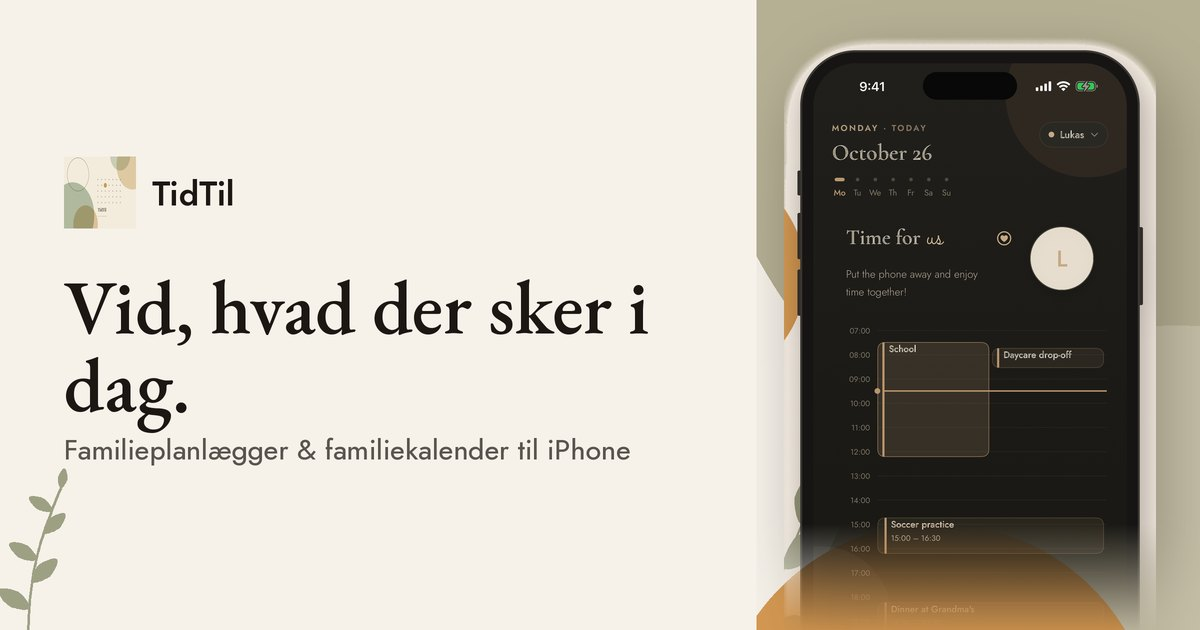
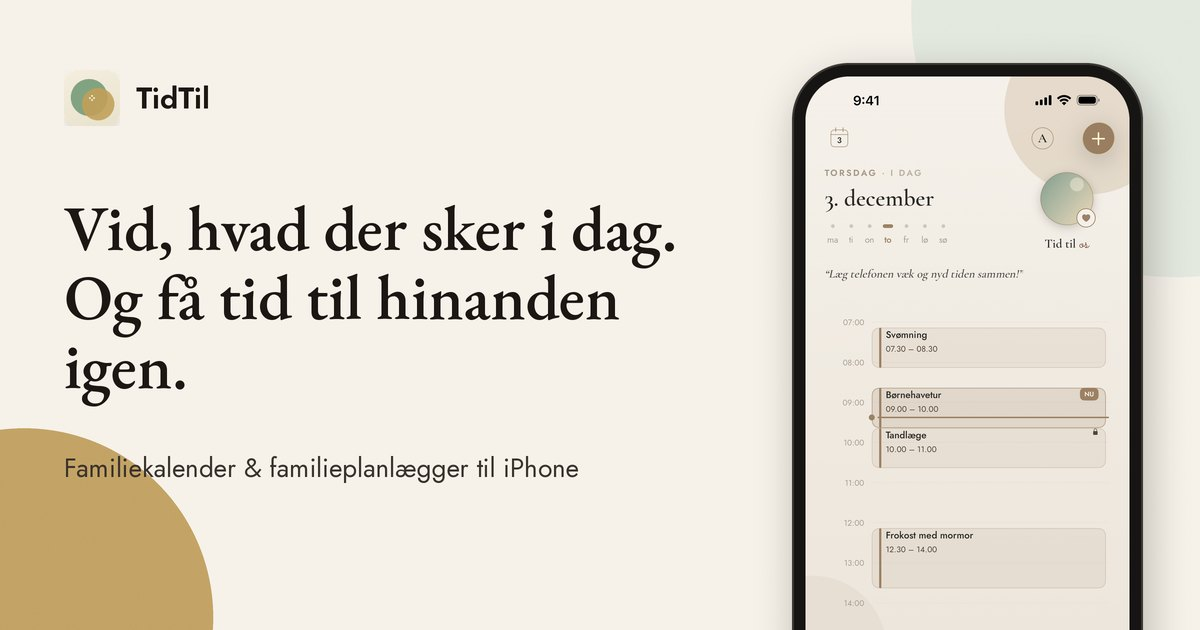
Bilder für TidTil 2.6 auf der Website
Hero, Funktionen, Unterseiten und OG-Bilder zeigen die neue Oberfläche.
Die Woche im Querformat gibt es vorerst nur auf Deutsch. Englisch und
Dänisch behalten dort die bisherigen Fotos.

diff --git a/layouts/index.html b/layouts/index.html
@@ -32,7 +32,9 @@
     </div>
   </div>
   <figure class="photo hero-photo">
-    <img src="{{ "img/hero-familienalltag.webp" | relURL }}" alt="{{ $p.hero_alt }}" width="1024" height="1536" loading="eager" fetchpriority="high">
+    {{- $hero := $p.hero_image | default "img/hero-familienalltag.webp" -}}
+    {{- $hero2 := replace $hero ".webp" "@2x.webp" -}}
+    <img src="{{ $hero | relURL }}"{{ if fileExists (printf "static/%s" $hero2) }} srcset="{{ $hero | relURL }} 1x, {{ $hero2 | relURL }} 2x"{{ end }} alt="{{ $p.hero_alt }}" width="{{ $p.hero_width | default 1024 }}" height="{{ $p.hero_height | default 1536 }}" loading="eager" fetchpriority="high">
   </figure>
 </section>
 
@@ -73,7 +75,7 @@
   <div class="feature-stack">
     {{- with index $r 0 }}
     <div class="feature">
-      <figure class="photo feature-photo"><img src="{{ .image | relURL }}" alt="{{ .alt }}" width="1003" height="1568" loading="lazy" decoding="async" style="object-position:50% 40%"></figure>
+      <figure class="photo feature-photo"><img src="{{ .image | relURL }}"{{ if fileExists (printf "static/%s" (replace .image ".webp" "@2x.webp")) }} srcset="{{ .image | relURL }} 1x, {{ replace .image ".webp" "@2x.webp" | relURL }} 2x"{{ end }} alt="{{ .alt }}" width="{{ .width | default 1003 }}" height="{{ .height | default 1568 }}" loading="lazy" decoding="async"{{ with .position }} style="object-position:{{ . | safeCSS }}"{{ end }}></figure>
       <div class="feature-text">
         <h3 class="h-feature">{{ .title }}</h3>
         <p class="copy">{{ .text }}</p>
@@ -86,13 +88,13 @@
         <h3 class="h-feature">{{ .title }}</h3>
         <p class="copy">{{ .text }}</p>
       </div>
-      <figure class="photo feature-photo"><img src="{{ .image | relURL }}" alt="{{ .alt }}" width="1122" height="1402" loading="lazy" decoding="async"></figure>
+      <figure class="photo feature-photo"><img src="{{ .image | relURL }}"{{ if fileExists (printf "static/%s" (replace .image ".webp" "@2x.webp")) }} srcset="{{ .image | relURL }} 1x, {{ replace .image ".webp" "@2x.webp" | relURL }} 2x"{{ end }} alt="{{ .alt }}" width="{{ .width | default 1122 }}" height="{{ .height | default 1402 }}" loading="lazy" decoding="async"></figure>
     </div>
     {{- end }}
     <div class="feature-pair">
       {{- with index $r 2 }}
       <div class="feature-card">
-        <figure class="photo"><img src="{{ .image | relURL }}" alt="{{ .alt }}" width="1122" height="1402" loading="lazy" decoding="async"></figure>
+        <figure class="photo"><img src="{{ .image | relURL }}"{{ if fileExists (printf "static/%s" (replace .image ".webp" "@2x.webp")) }} srcset="{{ .image | relURL }} 1x, {{ replace .image ".webp" "@2x.webp" | relURL }} 2x"{{ end }} alt="{{ .alt }}" width="{{ .width | default 1122 }}" height="{{ .height | default 1402 }}" loading="lazy" decoding="async"></figure>
         <h3 class="h-feature-sm">{{ .title }}</h3>
         <p class="copy">{{ .text }}</p>
       </div>
@@ -101,7 +103,7 @@
       {{- $src := .image -}}
       {{- $src2 := replace $src ".webp" "@2x.webp" -}}
       <div class="feature-card">
-        <figure class="photo"><img src="{{ $src | relURL }}" srcset="{{ $src | relURL }} 1x, {{ $src2 | relURL }} 2x" alt="{{ .alt }}" width="740" height="740" loading="lazy" decoding="async"></figure>
+        <figure class="photo"><img src="{{ $src | relURL }}" srcset="{{ $src | relURL }} 1x, {{ $src2 | relURL }} 2x" alt="{{ .alt }}" width="{{ .width | default 740 }}" height="{{ .height | default 740 }}" loading="lazy" decoding="async"></figure>
         <h3 class="h-feature-sm">{{ .title }}</h3>
         <p class="copy">{{ .text }}</p>
       </div>
@@ -117,7 +119,7 @@
     {{- $src := .image -}}
     {{- $src2 := replace $src ".webp" "@2x.webp" -}}
     <figure class="photo feature-photo-phone">
-      <img src="{{ $src | relURL }}" srcset="{{ $src | relURL }} 1x, {{ $src2 | relURL }} 2x" alt="{{ .alt }}" width="740" height="925" loading="lazy" decoding="async">
+      <img src="{{ $src | relURL }}" srcset="{{ $src | relURL }} 1x, {{ $src2 | relURL }} 2x" alt="{{ .alt }}" width="{{ .width | default 740 }}" height="{{ .height | default 925 }}" loading="lazy" decoding="async">
     </figure>
     <div class="feature-text">
       <h2 id="zeit-title" class="h-section">{{ .title }}</h2>
@@ -235,7 +237,9 @@
 
 <section class="closing">
   <figure class="photo closing-photo">
-    <img src="{{ "img/tidtil-header-clean.webp" | relURL }}" alt="{{ $p.hero_alt }}" width="1672" height="941" loading="lazy" decoding="async">
+    {{- $close := $p.close.image | default "img/tidtil-header-clean.webp" -}}
+    {{- $close2 := replace $close ".webp" "@2x.webp" -}}
+    <img src="{{ $close | relURL }}"{{ if fileExists (printf "static/%s" $close2) }} srcset="{{ $close | relURL }} 1x, {{ $close2 | relURL }} 2x"{{ end }} alt="{{ $p.close.image_alt | default $p.hero_alt }}" width="{{ $p.close.image_width | default 1672 }}" height="{{ $p.close.image_height | default 941 }}" loading="lazy" decoding="async">
   </figure>
   <div class="wrap closing-inner">
     <div class="closing-copy">

diff --git a/layouts/partials/doc.html b/layouts/partials/doc.html
@@ -27,7 +27,8 @@
     </div>
     {{- with .Params.hero_image }}
     <figure class="photo doc-photo">
-      <img src="{{ . | relURL }}" alt="{{ $.Params.hero_alt }}" width="{{ $.Params.hero_width | default 1536 }}" height="{{ $.Params.hero_height | default 1024 }}" loading="eager" fetchpriority="high">
+      {{- $src2 := replace . ".webp" "@2x.webp" -}}
+      <img src="{{ . | relURL }}"{{ if fileExists (printf "static/%s" $src2) }} srcset="{{ . | relURL }} 1x, {{ $src2 | relURL }} 2x"{{ end }} alt="{{ $.Params.hero_alt }}" width="{{ $.Params.hero_width | default 1536 }}" height="{{ $.Params.hero_height | default 1024 }}" loading="eager" fetchpriority="high">
     </figure>
     {{- end }}
   </header>

diff --git a/layouts/partials/head.html b/layouts/partials/head.html
@@ -93,7 +93,7 @@
   "url": {{ .Permalink | jsonify | safeJS }},
   "installUrl": {{ partial "appstore-url.html" (dict "page" . "ct" "web-hero") | jsonify | safeJS }},
   "image": {{ $ogImage | jsonify | safeJS }},
-  "screenshot": {{ "img/feature-tagesueberblick.webp" | absURL | jsonify | safeJS }},
+  "screenshot": {{ printf "img/2.6/hero-tag-%s.webp" .Site.Language.Lang | absURL | jsonify | safeJS }},
   "offers": [
     {"@type":"Offer","name":{{ i18n "offer_name_personal" | jsonify | safeJS }},"price":"0","priceCurrency":"EUR"},
     {"@type":"Offer","name":{{ i18n "offer_name_family_monthly" | jsonify | safeJS }},"price":"1.99","priceCurrency":"EUR"},

diff --git a/content/_index.de.md b/content/_index.de.md
@@ -4,7 +4,10 @@ h1: "Wissen, was heute ansteht. Und wieder Zeit für euch."
 kicker: "Der ruhige Familienkalender fürs iPhone"
 sub: "Gemeinsame und private Termine auf einen Blick – ohne Aufgabenlisten, Chats und Funktionsballast. Deine Termine aus dem Apple Kalender holst du mit wenigen Tipps herüber."
 proof: "Kostenlos laden · Familie 14 Tage gratis · Kein Konto · Keine Werbung"
-hero_alt: "TidTil im Familienalltag"
+hero_alt: "TidTil Tagesansicht am Donnerstag, dem 3. Dezember, hell, mit Zeit für uns."
+hero_image: "img/2.6/hero-tag-de.webp"
+hero_width: 520
+hero_height: 650
 
 # „Euer Tag“ – Live-Tagesansicht. Zeiten in Minuten ab Mitternacht,
 # who = Index in live.who, family = für die Familie sichtbar (sonst privat).
@@ -39,31 +42,41 @@ features:
   rows:
     - title: "Was steht bei uns an?"
       text: "Was heute ansteht, wann und für wen. Die Monatsansicht zeigt, was als Nächstes kommt. Quer gedreht siehst du die ganze Woche."
-      image: "img/feature-tagesueberblick.webp"
-      alt: "Heute-Ansicht in TidTil"
+      image: "img/2.6/feature-woche-de.webp"
+      alt: "TidTil Wochenplan im Querformat, Montag bis Sonntag."
+      width: 760
+      height: 608
     - title: "Was? Wann? Für wen? Wer darf’s sehen?"
       text: "Mehr braucht ein Familientermin meistens nicht."
-      image: "img/feature-neuer-termin.webp"
-      alt: "Neuen Familientermin anlegen"
+      image: "img/2.6/feature-termin-de.webp"
+      alt: "Neuen Termin in TidTil anlegen, mit Uhrzeit und Sichtbarkeit für die Familie."
+      width: 760
+      height: 608
     - title: "Fühlt sich nach euch an"
       text: "Ruhig und klar – wählt eure Farbe, ohne Business-Kalender-Gefühl."
-      image: "img/feature-personalisierung.webp"
-      alt: "Farben in TidTil anpassen"
+      image: "img/2.6/feature-design-de.webp"
+      alt: "TidTil Tagesansicht im dunklen Design."
+      width: 740
+      height: 740
     - title: "Direkt loslegen"
       text: "Kein Konto, kein Passwort, kein langes Onboarding. Deine Termine aus dem Apple Kalender holst du mit wenigen Tipps herüber, auch ohne Abo."
-      image: "img/feature-familie-einladen-de.webp"
-      alt: "Familie in TidTil einladen"
+      image: "img/2.6/feature-import-de.webp"
+      alt: "Kalender importieren in TidTil, Termine aus dem Apple Kalender übernehmen."
+      width: 740
+      height: 740
 
 for_us:
   title: "Zeit für uns."
   text: "Euer Foto mit Herz steht neben dem Datum, darunter euer eigener Satz. Ein Tipp aufs Herz, und ihr ladet euch zu einem Date ein – zusagen, absagen oder eine andere Zeit vorschlagen. Die eigene Einladung lässt sich verschieben oder zurückziehen."
   note: "Teil von TidTil Familie"
-  image: "img/feature-zeit-fuer-uns-de.webp"
-  alt: "Einladung zu einem Date in TidTil"
+  image: "img/2.6/feature-zeit-fuer-uns-de.webp"
+  alt: "Zeit für uns in TidTil: Einladung an Ben am 3. Dezember."
+  width: 480
+  height: 600
 
 soon:
   title: "Neu in TidTil 2.6."
-  version: "Jetzt im Update"
+  version: "Jetzt in 2.6"
   items:
     - title: "Kalenderimport"
       text: "Termine aus dem Apple Kalender auswählen und in TidTil übernehmen, auch in der kostenlosen Version. Kalender und einen Zeitraum ab heute wählen: den nächsten Monat oder die nächsten 3, 6 oder 12 Monate. Der Apple Kalender bleibt unverändert. Übernommene Termine sind zuerst privat und werden einzeln für die Familie freigegeben. Im Profilmenü unter „Kalenderimport“."
@@ -159,4 +172,8 @@ faq:
 
 close:
   title: "Wissen, was ansteht. Dann das Handy weglegen."
+  image: "img/2.6/schluss-woche-de.webp"
+  image_alt: "TidTil Wochenplan im Querformat, die Woche von Montag bis Sonntag."
+  image_width: 1440
+  image_height: 630
 ---

diff --git a/content/_index.da.md b/content/_index.da.md
@@ -4,7 +4,10 @@ h1: "Vid, hvad der sker i dag. Og få tid til hinanden igen."
 kicker: "Familiekalenderen til iPhone"
 sub: "Fælles og private aftaler på ét blik – uden opgavelister, chats og unødvendige funktioner. Dine aftaler fra Apple Kalender henter du over med få tryk."
 proof: "Gratis at hente · Familie 14 dage gratis · Ingen konto · Ingen reklamer"
-hero_alt: "TidTil i familiens hverdag"
+hero_alt: "TidTil dagsvisning torsdag den 3. december, lys, med Tid til os."
+hero_image: "img/2.6/hero-tag-da.webp"
+hero_width: 520
+hero_height: 650
 
 live:
   title: "Jeres dag."
@@ -39,29 +42,40 @@ features:
       text: "Dagens aftaler, hvornår og for hvem. Månedsvisningen viser, hvad der kommer. Vend telefonen, og du ser hele ugen."
       image: "img/feature-tagesueberblick.webp"
       alt: "I dag-visning i TidTil"
+      width: 1003
+      height: 1568
+      position: "50% 40%"
     - title: "Hvad? Hvornår? For hvem? Hvem må se det?"
       text: "Mere behøver en familieaftale som regel ikke."
-      image: "img/feature-neuer-termin.webp"
-      alt: "Opret en familieaftale"
+      image: "img/2.6/feature-termin-da.webp"
+      alt: "Opret en ny aftale i TidTil, med tidspunkt og synlighed for familien."
+      width: 760
+      height: 608
     - title: "Føles som jeres"
       text: "Rolig og klar – vælg jeres farve, uden erhvervskalender-følelse."
-      image: "img/feature-personalisierung.webp"
-      alt: "Tilpas farver i TidTil"
+      image: "img/2.6/feature-design-da.webp"
+      alt: "TidTil dagsvisning i mørkt design."
+      width: 740
+      height: 740
     - title: "Kom i gang med det samme"
       text: "Ingen konto, ingen adgangskode, ingen lang introduktion. Dine aftaler fra Apple Kalender henter du over med få tryk, også uden abonnement."
-      image: "img/feature-familie-einladen-en.webp"
-      alt: "Inviter din familie til TidTil"
+      image: "img/2.6/feature-import-da.webp"
+      alt: "Importer en kalender i TidTil, og tag aftaler med fra Apple Kalender."
+      width: 740
+      height: 740
 
 for_us:
   title: "Tid til os."
   text: "Jeres foto med et hjerte står ved siden af datoen, med jeres egen sætning nedenunder. Tryk på hjertet, og inviter hinanden til en date – accepter, afvis eller foreslå et andet tidspunkt. Din egen invitation kan flyttes eller trækkes tilbage."
   note: "En del af TidTil Familie"
-  image: "img/feature-zeit-fuer-uns-en.webp"
-  alt: "Invitation til en date i TidTil"
+  image: "img/2.6/feature-zeit-fuer-uns-da.webp"
+  alt: "Tid til os i TidTil: invitation til Ben den 3. december."
+  width: 480
+  height: 600
 
 soon:
   title: "Nyt i TidTil 2.6."
-  version: "Ude nu som opdatering"
+  version: "Nyt i 2.6"
   items:
     - title: "Kalenderimport"
       text: "Vælg aftaler i Apple Kalender og tag dem med over i TidTil, også i den gratis version. Vælg kalenderne og et tidsrum fra i dag: den næste måned eller de næste 3, 6 eller 12 måneder. Apple Kalender forbliver uændret. Importerede aftaler er først private og kan derefter enkeltvis gøres synlige for familien. I profilmenuen under „Kalenderimport“."
@@ -157,4 +171,5 @@ faq:
 
 close:
   title: "Se, hvad der skal ske. Læg så telefonen væk."
+  image_alt: "Mor og barn ved køkkenbordet, TidTil med en lys dagsvisning på iPhone."
 ---

diff --git a/content/_index.en.md b/content/_index.en.md
@@ -4,7 +4,10 @@ h1: "Know what’s on today. And make time for each other again."
 kicker: "The family calendar for iPhone"
 sub: "Shared and private events at a glance – without task lists, chats or feature overload. Bring your events over from Apple Calendar in just a few taps."
 proof: "Free to download · Family free for 14 days · No account · No ads"
-hero_alt: "TidTil in everyday family life"
+hero_alt: "TidTil day view on Thursday 3 December, light, with Time for us."
+hero_image: "img/2.6/hero-tag-en.webp"
+hero_width: 520
+hero_height: 650
 
 live:
   title: "Your day."
@@ -39,29 +42,40 @@ features:
       text: "Today’s events, their times and who they’re for. The month view shows what’s next. Turn your iPhone sideways to see the whole week."
       image: "img/feature-tagesueberblick.webp"
       alt: "Today view in TidTil"
+      width: 1003
+      height: 1568
+      position: "50% 40%"
     - title: "What? When? Who? Who can see it?"
       text: "That’s usually all a family event needs."
-      image: "img/feature-neuer-termin.webp"
-      alt: "Creating a family event"
+      image: "img/2.6/feature-termin-en.webp"
+      alt: "Creating a new event in TidTil, with time and visibility for the family."
+      width: 760
+      height: 608
     - title: "Feels like yours"
       text: "Calm and clear – pick your colour, without the business-calendar feel."
-      image: "img/feature-personalisierung.webp"
-      alt: "Customising colours in TidTil"
+      image: "img/2.6/feature-design-en.webp"
+      alt: "TidTil day view in the dark design."
+      width: 740
+      height: 740
     - title: "Start right away"
       text: "No account, no password, no lengthy onboarding. Bring your events over from Apple Calendar in a few taps, even without a subscription."
-      image: "img/feature-familie-einladen-en.webp"
-      alt: "Invite your family to TidTil"
+      image: "img/2.6/feature-import-en.webp"
+      alt: "Importing a calendar in TidTil, bringing events over from Apple Calendar."
+      width: 740
+      height: 740
 
 for_us:
   title: "Time for us."
   text: "Your photo with a heart sits next to the date, with your own line of text below. Tap the heart to invite each other to a date – accept, decline or suggest another time. You can move or withdraw your own invitation."
   note: "Part of TidTil Family"
-  image: "img/feature-zeit-fuer-uns-en.webp"
-  alt: "Invitation to a date in TidTil"
+  image: "img/2.6/feature-zeit-fuer-uns-en.webp"
+  alt: "Time for us in TidTil: an invitation to Ben on 3 December."
+  width: 480
+  height: 600
 
 soon:
   title: "New in TidTil 2.6."
-  version: "Out now as an update"
+  version: "New in 2.6"
   items:
     - title: "Calendar import"
       text: "Choose events from Apple Calendar and bring them into TidTil, in the free version too. Pick the calendars and a period starting today: the next month, or the next 3, 6 or 12 months. Apple Calendar stays unchanged. Imported events are private at first and can then be shared with the family one by one. In the profile menu, under “Calendar import”."
@@ -157,4 +171,5 @@ faq:
 
 close:
   title: "Know what’s ahead. Then put the phone away."
+  image_alt: "Mother and child at the kitchen table, TidTil with a light day view on the iPhone."
 ---

diff --git a/content/familienkalender-kinder-ohne-handy.de.md b/content/familienkalender-kinder-ohne-handy.de.md
@@ -3,8 +3,10 @@ title: "Familienkalender für Kinder ohne eigenes Handy"
 description: "Auch Kinder ohne eigenes iPhone gehören in den Familienkalender: einmal mit Namen anlegen und Termine zuordnen – ohne Gerät und ohne Konto fürs Kind."
 url: "/familienkalender-kinder-ohne-handy/"
 layout: "landing"
-hero_image: "img/familien-sync-banner.webp"
-hero_alt: "Familienmitglieder in TidTil anlegen und Termine zuordnen"
+hero_image: "img/2.6/seite-familie-de.webp"
+hero_width: 560
+hero_height: 420
+hero_alt: "Familie einladen in TidTil, damit auch Kinder ohne iPhone Termine bekommen."
 hero_lead: "Termine eindeutig zuordnen – auch für Kinder, die noch kein eigenes iPhone haben."
 faq:
   - q: "Können auch Kinder ohne iPhone dabei sein?"

diff --git a/content/familienkalender-kinder-ohne-handy.en.md b/content/familienkalender-kinder-ohne-handy.en.md
@@ -3,8 +3,10 @@ title: "Family Calendar for Children Without a Phone"
 description: "Include children without their own iPhone in your family calendar: add them once by name and assign events – no device or account needed for the child."
 url: "/family-calendar-kids-without-phone/"
 layout: "landing"
-hero_image: "img/familien-sync-banner.webp"
-hero_alt: "Adding family members in TidTil and assigning events to them"
+hero_image: "img/2.6/seite-familie-en.webp"
+hero_width: 560
+hero_height: 420
+hero_alt: "Invite family in TidTil, so children without an iPhone can have events too."
 hero_lead: "Assign events clearly – including to children who don't have an iPhone yet."
 faq:
   - q: "Can children without an iPhone be included?"

diff --git a/content/familienkalender-iphone.de.md b/content/familienkalender-iphone.de.md
@@ -3,8 +3,10 @@ title: "Familienkalender fürs iPhone – einfach gemeinsam planen"
 description: "TidTil ist ein einfacher Familienkalender fürs iPhone: gemeinsame und private Termine organisieren, Familie synchronisieren und den Tag im Blick behalten."
 url: "/familienkalender-iphone/"
 layout: "landing"
-hero_image: "img/familien-sync-banner.webp"
-hero_alt: "TidTil Familie einladen und gemeinsam synchronisieren"
+hero_image: "img/2.6/seite-familie-de.webp"
+hero_width: 560
+hero_height: 420
+hero_alt: "Familie einladen in TidTil, der gemeinsame Kalender ist freigeschaltet."
 hero_lead: "Gemeinsame Termine organisieren – ohne Aufgabenlisten, Chats und Kalenderchaos."
 faq:
   - q: "Kann ich Termine mit meiner Familie teilen?"

diff --git a/content/familienkalender-ohne-werbung.da.md b/content/familienkalender-ohne-werbung.da.md
@@ -3,10 +3,10 @@ title: "Familiekalender uden reklamer og uden konto"
 description: "Familiekalender til iPhone uden reklamer, uden egen konto og uden forretningsmodel bygget på jeres data. Jeres aftaler bliver i jeres egen iCloud."
 url: "/familiekalender-uden-reklamer/"
 layout: "landing"
-hero_image: "img/tidtil-header-clean.webp"
-hero_width: 1672
-hero_height: 941
-hero_alt: "TidTil familiekalender uden reklamer på iPhone"
+hero_image: "img/2.6/seite-ohne-werbung-privat-da.webp"
+hero_width: 560
+hero_height: 420
+hero_alt: "En privat aftale i TidTil, tandlæge, kun synlig for dig."
 hero_lead: "Ingen reklamer, ingen egen konto, ingen forretningsmodel bygget på jeres kalenderdata."
 faq:
   - q: "Viser TidTil reklamer?"

diff --git a/content/familienkalender-ohne-werbung.de.md b/content/familienkalender-ohne-werbung.de.md
@@ -3,10 +3,10 @@ title: "Familienkalender ohne Werbung und ohne Konto"
 description: "Familienkalender fürs iPhone ohne Werbung, ohne eigenes Konto und ohne Tracking-Geschäftsmodell. Eure Termine bleiben in eurer eigenen iCloud."
 url: "/familienkalender-ohne-werbung/"
 layout: "landing"
-hero_image: "img/tidtil-header-clean.webp"
-hero_width: 1672
-hero_height: 941
-hero_alt: "TidTil Familienkalender ohne Werbung auf dem iPhone"
+hero_image: "img/2.6/seite-ohne-werbung-privat-de.webp"
+hero_width: 560
+hero_height: 420
+hero_alt: "Privater Termin in TidTil, Zahnarzt, nur für dich sichtbar."
 hero_lead: "Keine Werbung, kein eigenes Konto, kein Geschäftsmodell mit euren Kalenderdaten."
 faq:
   - q: "Zeigt TidTil Werbung?"

diff --git a/content/familienkalender-kinder-ohne-handy.da.md b/content/familienkalender-kinder-ohne-handy.da.md
@@ -3,8 +3,10 @@ title: "Familiekalender til børn uden egen telefon"
 description: "Børn uden egen iPhone hører også til i familiekalenderen: opret dem én gang med navn og tildel aftaler – uden enhed og uden konto til barnet."
 url: "/familiekalender-boern-uden-telefon/"
 layout: "landing"
-hero_image: "img/familien-sync-banner.webp"
-hero_alt: "Opret familiemedlemmer i TidTil og tildel dem aftaler"
+hero_image: "img/2.6/seite-familie-da.webp"
+hero_width: 560
+hero_height: 420
+hero_alt: "Inviter familie i TidTil, så også børn uden iPhone kan få aftaler."
 hero_lead: "Tildel aftaler tydeligt – også til børn, der endnu ikke har en egen iPhone."
 faq:
   - q: "Kan børn uden iPhone også være med?"
